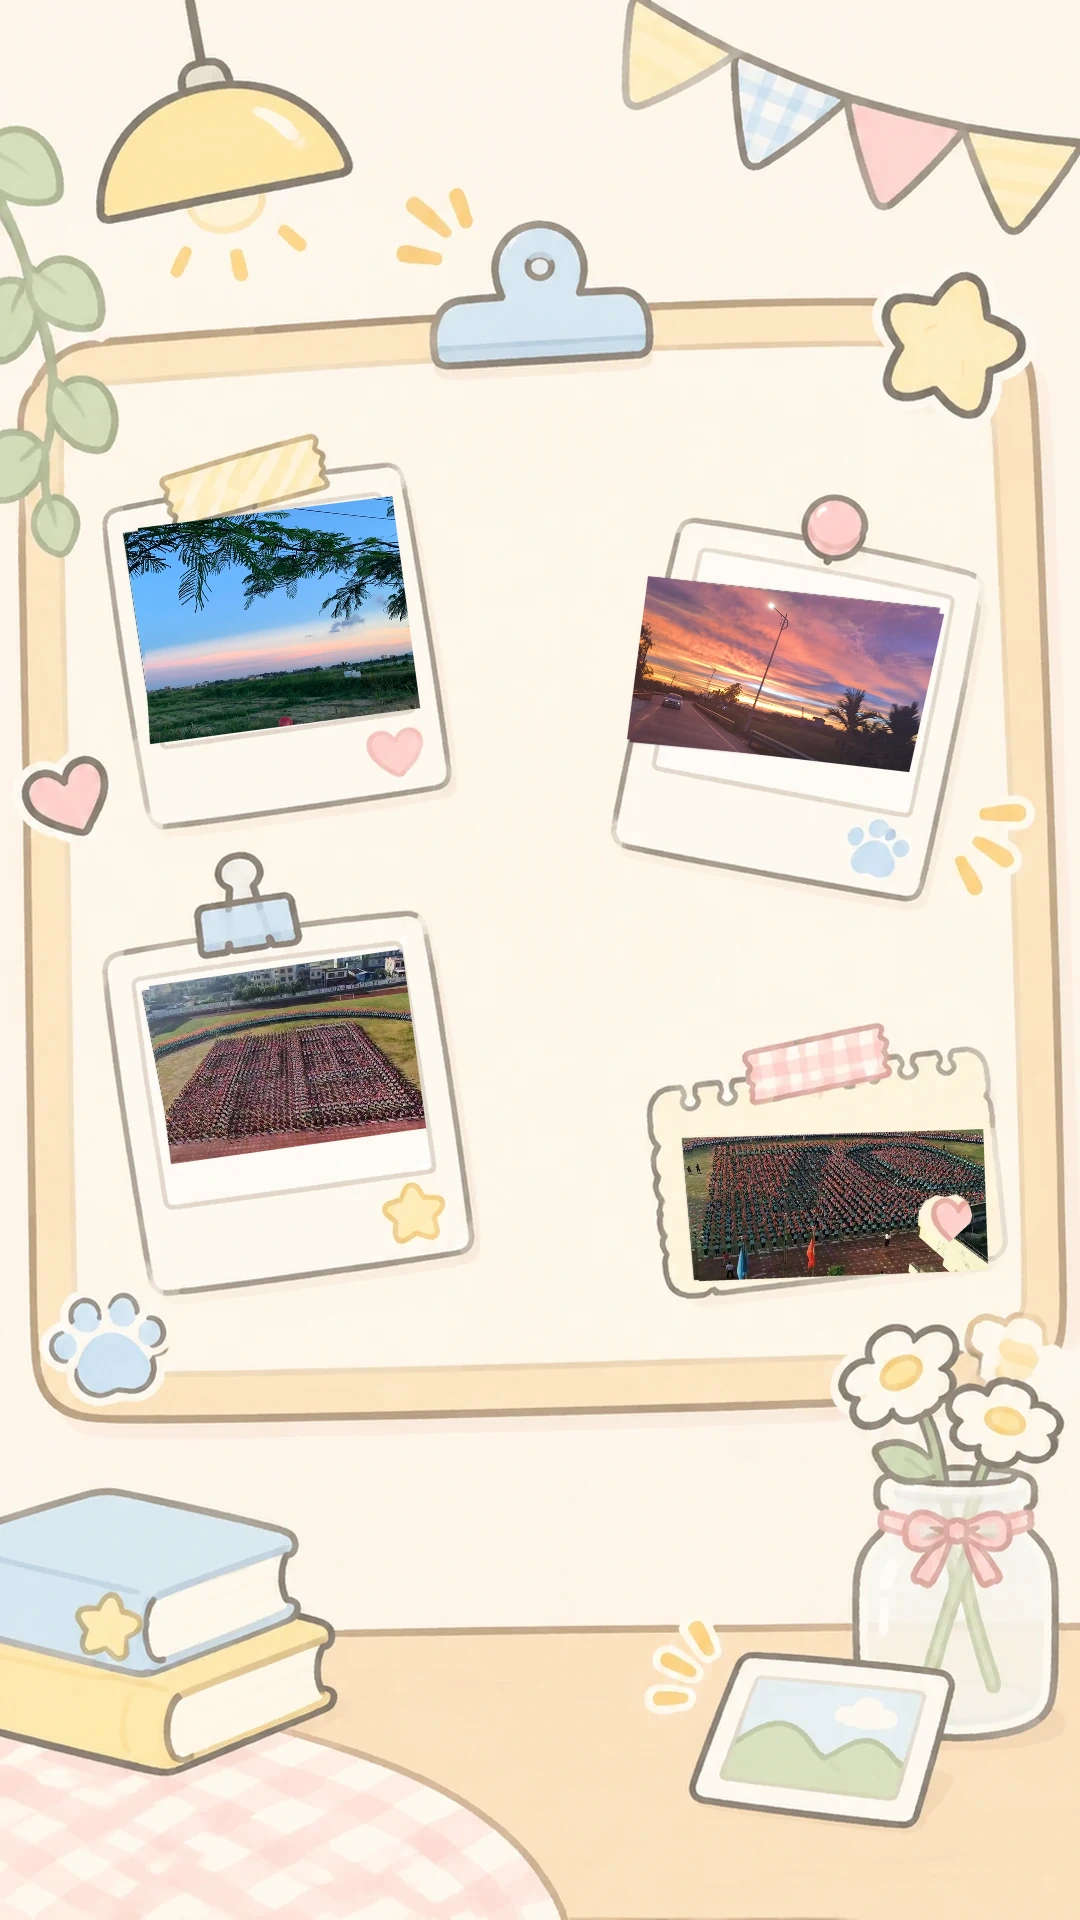
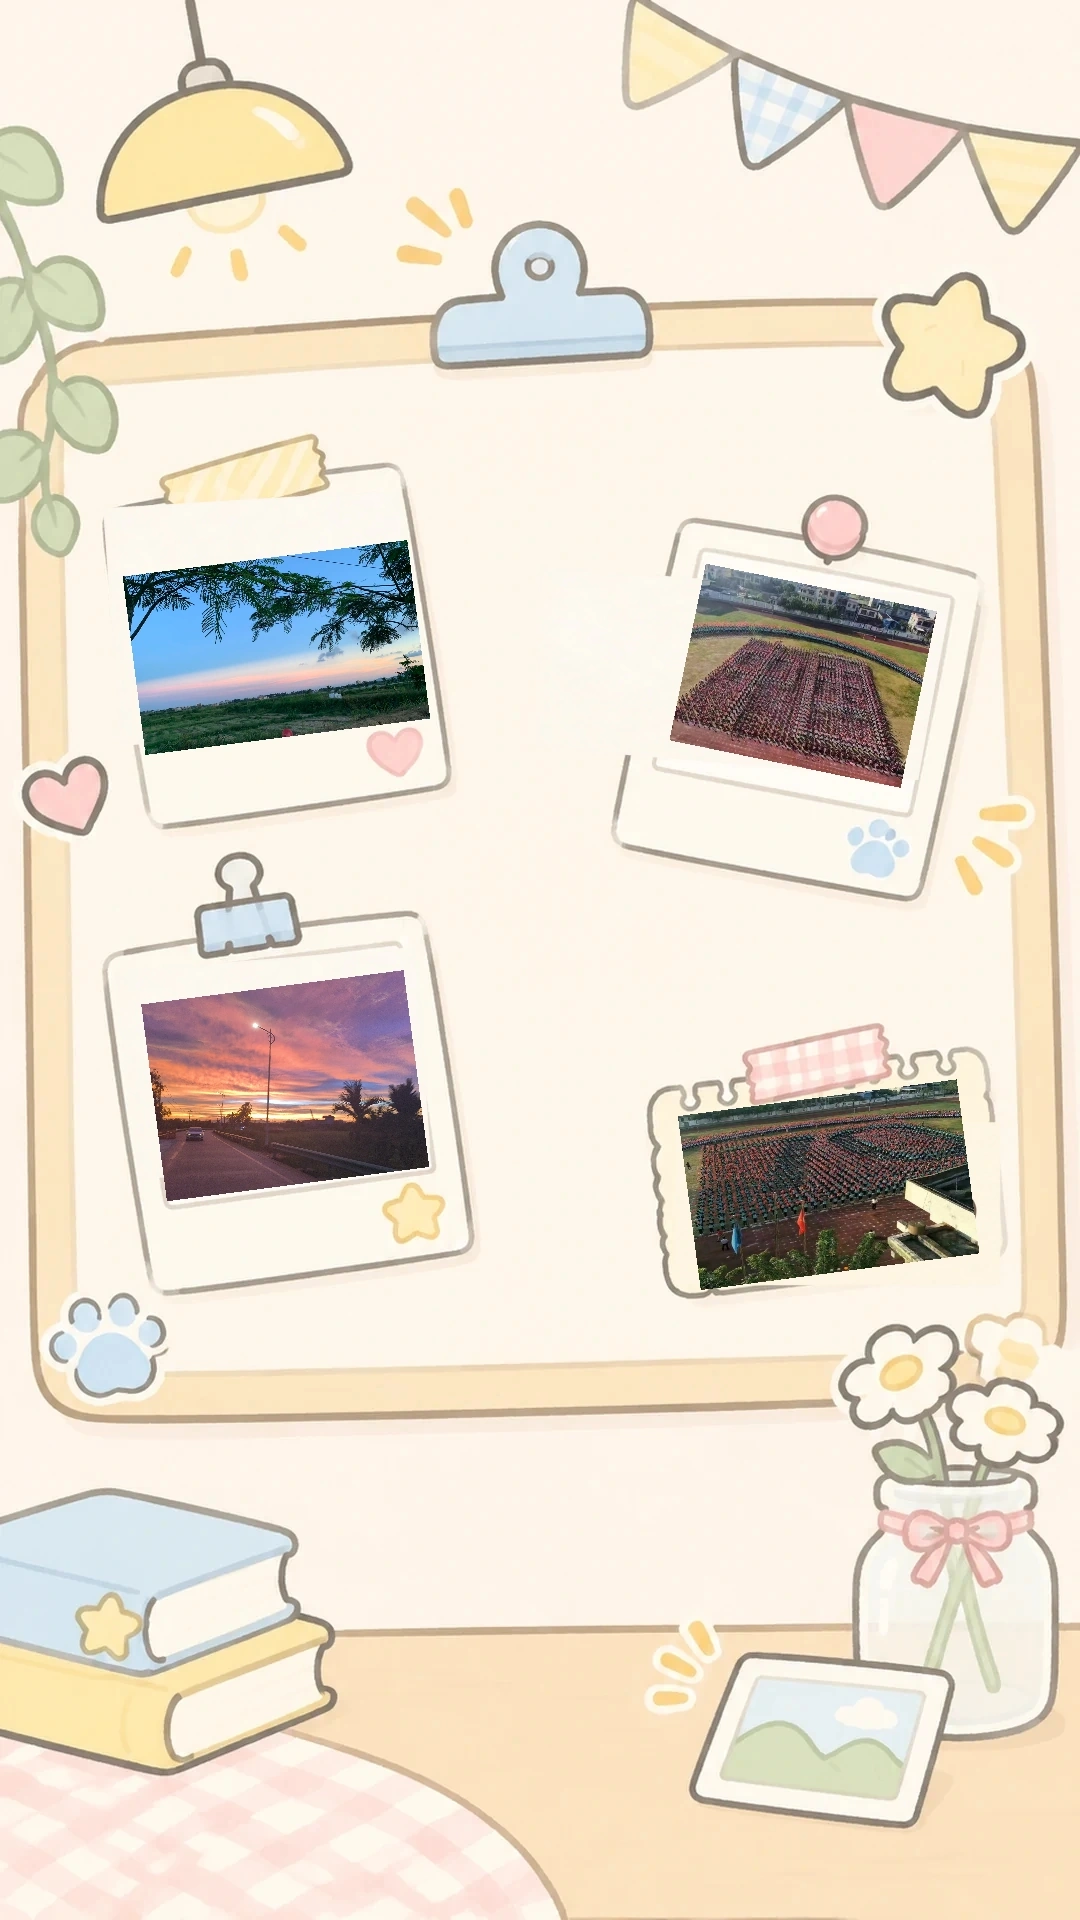
add necklace photo in treasure scene, tune styles

diff --git a/js/app.js b/js/app.js
@@ -102,9 +102,10 @@
       $$('.answer[data-answer="B"]').forEach(el => el.classList.add("correct"));
     }
     if (state.giftOpened) {
-      $("#giftArt").src = "assets/props/gift-open.png";
-      $("#giftArt").alt = "已经打开的生日礼物盒";
-      $("#giftHint").textContent = "宝藏已经打开啦";
+      $("#giftArt").src = "assets/photos/treasure-necklace.jpg";
+      $("#giftArt").alt = "送给你的项链礼物";
+      $("#giftArt").classList.add("revealed-art");
+      $("#giftHint").textContent = "这条项链，送给特别的你";
       $("#birthdayLetter").classList.remove("hidden");
       $("#restartBtn").classList.remove("hidden");
     }
@@ -184,6 +185,8 @@
     $("#birthdayLetter").classList.add("hidden");
     $("#restartBtn").classList.add("hidden");
     $("#giftArt").src = "assets/props/gift-closed.png";
+    $("#giftArt").alt = "还未打开的生日礼物盒";
+    $("#giftArt").classList.remove("revealed-art");
     $("#giftHint").textContent = "点击礼物盒，看看里面藏着什么";
     render();
   });

diff --git a/css/style.css b/css/style.css
@@ -213,6 +213,7 @@ h3 { font-size: 18px; line-height: 1.5; }
   color: #887762; font-size: 12px;
 }
 .gift-button img { width: min(60vw, 245px); height: min(27vh, 240px); object-fit: contain; }
+.gift-button img.revealed-art { width: min(66vw, 280px); height: min(36vh, 330px); object-fit: contain; border-radius: 14px; box-shadow: 0 8px 22px rgba(100, 78, 54, .12); }
 .celebrate-puppies { width: min(78%, 310px); max-height: 22vh; object-fit: contain; margin: 0 auto 8px; }
 .birthday-letter {
   width: min(100%, 420px); padding: 18px 20px; border-radius: 22px;
